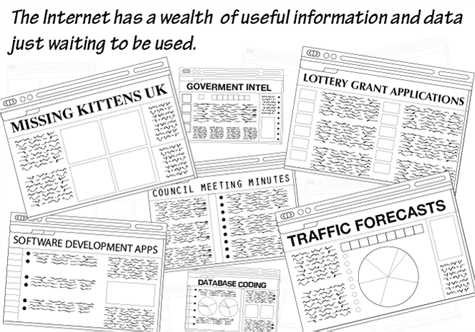
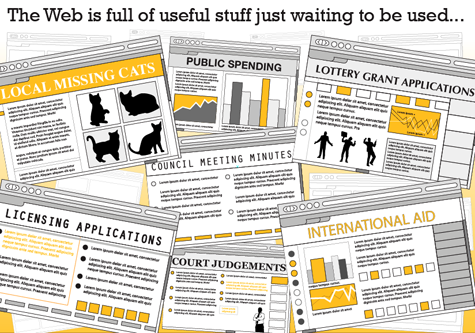
new slideshow

diff --git a/web/templates/frontend/frontpage.html b/web/templates/frontend/frontpage.html
@@ -10,7 +10,8 @@
             <img src="{{ MEDIA_URL }}images/intro_slides/intro1.png" />
             <img src="{{ MEDIA_URL }}images/intro_slides/intro2.png" />
             <img src="{{ MEDIA_URL }}images/intro_slides/intro3.png" />
-            <img src="{{ MEDIA_URL }}images/intro_slides/intro4.png" />                                    
+            <img src="{{ MEDIA_URL }}images/intro_slides/intro4.png" />  
+            <img src="{{ MEDIA_URL }}images/intro_slides/intro5.png" />                                                
         </div>
         <div class="slide_nav"></div>
     </div>

diff --git a/web/media/js/scraperwiki.js b/web/media/js/scraperwiki.js
@@ -243,7 +243,7 @@ function setupIntroSlideshow(){
     $('.slide_show').cycle({
 		fx: 'fade',
         speed:   1000, 
-        timeout: 8000, 
+        timeout: 7000, 
         next:   '.slide_show', 
         pause:   1,
         pager: '.slide_nav',
